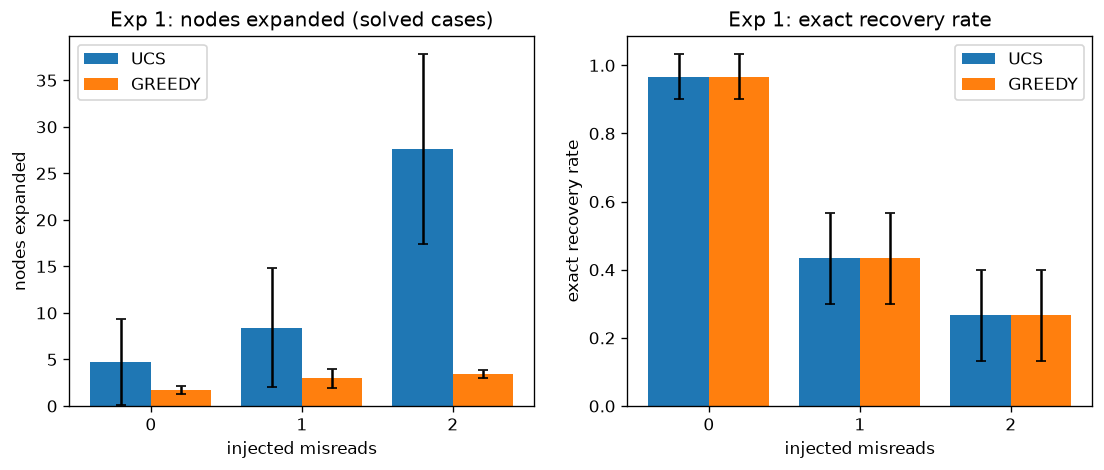
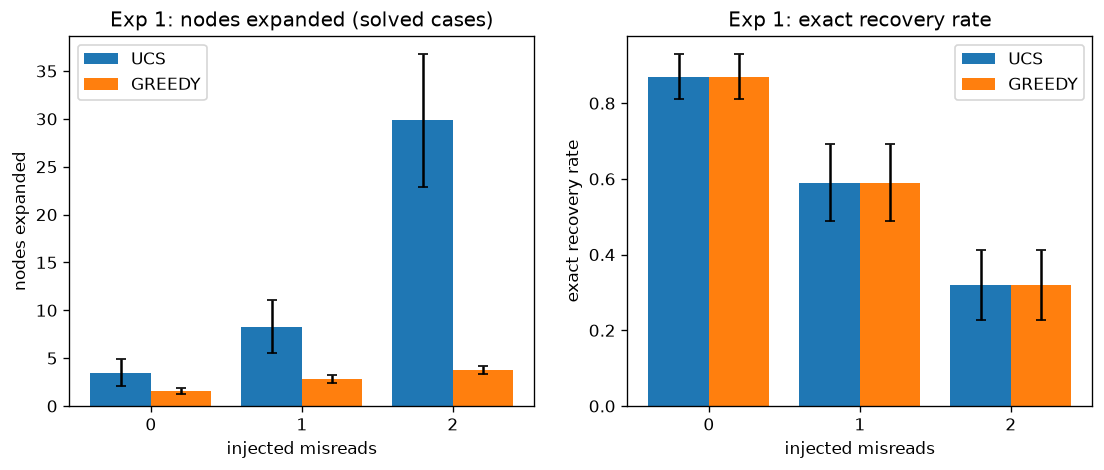
Experiments with 100 puzzles per level

diff --git a/experiments.py b/experiments.py
@@ -1,0 +1,224 @@
+# experiments.py - the three experiments. Saves exp*.csv and exp*.png.
+#   python experiments.py --quick     (small run, ~3 min, to check everything works)
+#   python experiments.py             (full run)
+import csv
+import random
+import signal
+import sys
+import time
+import numpy as np
+import matplotlib
+matplotlib.use("Agg")
+import matplotlib.pyplot as plt
+
+from puzzle_gen import make_puzzle
+from reader import load_all, make_pools, read_mosaic
+from csp import init_domains, ac3, solve, counters
+from search import search, solvable
+
+SEEDS = [1, 2, 3, 4, 5]
+PER_SEED = 20            # puzzles per seed per setting (experiments 1 and 3)
+PER_SEED_E2 = 4         # puzzles per seed per setting (experiment 2)
+MISREADS = [0, 1, 2]
+GIVENS = [25, 30, 35]
+TIMEOUT = 10            # seconds allowed for one plain-backtracking run
+RANDOM_BUDGET = 60      # CSP tests given to the random-correction baseline
+if "--quick" in sys.argv:
+    SEEDS, PER_SEED, PER_SEED_E2 = [1, 2], 2, 2
+
+
+class Timeout(Exception):
+    pass
+
+
+def _alarm(signum, frame):
+    raise Timeout()
+
+
+signal.signal(signal.SIGALRM, _alarm)       # Linux only
+
+
+def mean_std(per_seed):
+    v = np.array(per_seed, dtype=float)
+    v = v[~np.isnan(v)]
+    return (float(v.mean()), float(v.std())) if len(v) else (float("nan"), float("nan"))
+
+
+def seed_mean(values):
+    return float(np.mean(values)) if values else float("nan")
+
+
+def random_correction(read, rng, truth):
+    """Baseline: test the reading as is, then try random 1-2 cell changes."""
+    sol = solvable(read)
+    if sol is not None:
+        return sol == truth
+    cells = [(r, c) for r in range(9) for c in range(9) if read[r][c]]
+    for _ in range(RANDOM_BUDGET):
+        g = [row[:] for row in read]
+        for (r, c) in rng.sample(cells, rng.choice([1, 2])):
+            g[r][c] = rng.choice([d for d in range(1, 10) if d != read[r][c]])
+        sol = solvable(g)
+        if sol is not None:
+            return sol == truth
+    return False
+
+
+def exp13():
+    nn, x_test, y_test = load_all()
+    pools = make_pools(nn, x_test, y_test)
+    out = {}
+    for level in MISREADS:
+        keys = ["ucs_exact", "ucs_nodes", "ucs_cost", "greedy_exact", "greedy_nodes",
+                "greedy_cost", "none_exact", "random_exact"]
+        per_seed = {k: [] for k in keys}
+        for seed in SEEDS:
+            tmp = {k: [] for k in keys}
+            for i in range(PER_SEED):
+                s = seed * 1000 + level * 100 + i
+                puzzle, truth = make_puzzle(s, 30)
+                read, probs, _ = read_mosaic(puzzle, pools, nn, x_test, random.Random(s), level)
+                for m in ("ucs", "greedy"):
+                    res = search(read, probs, m)
+                    tmp[m + "_exact"].append(1.0 if res and res["solution"] == truth else 0.0)
+                    if res:
+                        tmp[m + "_nodes"].append(res["expanded"])
+                        tmp[m + "_cost"].append(res["cost"])
+                sol = solvable(read)
+                tmp["none_exact"].append(1.0 if sol is not None and sol == truth else 0.0)
+                tmp["random_exact"].append(
+                    1.0 if random_correction(read, random.Random(s + 1), truth) else 0.0)
+            for k in keys:
+                per_seed[k].append(seed_mean(tmp[k]))
+            print(f"  exp1/3: misreads={level} seed={seed} done", flush=True)
+        out[level] = {k: mean_std(v) for k, v in per_seed.items()}
+    return out
+
+
+def run_bt(grid, mode):
+    counters["assignments"] = 0
+    counters["backtracks"] = 0
+    g = [row[:] for row in grid]
+    timed_out = False
+    signal.setitimer(signal.ITIMER_REAL, TIMEOUT)
+    try:
+        dom = init_domains(g)
+        if mode == "bt+fc+ac3":
+            ac3(dom)
+        solve(g, dom, use_fc=(mode != "bt"))
+    except Timeout:
+        timed_out = True
+    finally:
+        signal.setitimer(signal.ITIMER_REAL, 0)
+    return counters["assignments"], counters["backtracks"], timed_out
+
+
+def exp2():
+    modes = ["bt", "bt+fc", "bt+fc+ac3"]
+    out = {}
+    for givens in GIVENS:
+        per = {m: {"assign": [], "back": [], "timeouts": 0} for m in modes}
+        for seed in SEEDS:
+            tmp = {m: {"a": [], "b": []} for m in modes}
+            for i in range(PER_SEED_E2):
+                puzzle, _ = make_puzzle(seed * 1000 + givens * 10 + i, givens)
+                for m in modes:
+                    a, b, to = run_bt(puzzle, m)
+                    tmp[m]["a"].append(a)
+                    tmp[m]["b"].append(b)
+                    per[m]["timeouts"] += int(to)
+            for m in modes:
+                per[m]["assign"].append(seed_mean(tmp[m]["a"]))
+                per[m]["back"].append(seed_mean(tmp[m]["b"]))
+            print(f"  exp2: givens={givens} seed={seed} done", flush=True)
+        out[givens] = {m: {"assign": mean_std(per[m]["assign"]), "back": mean_std(per[m]["back"]),
+                           "timeouts": per[m]["timeouts"]} for m in modes}
+    return out
+
+
+def write_csv(path, header, rows):
+    with open(path, "w", newline="") as f:
+        w = csv.writer(f)
+        w.writerow(header)
+        w.writerows(rows)
+    print("saved", path)
+
+
+def grouped_bar(ax, labels, series, ylabel, title, log=False):
+    w = 0.8 / len(series)
+    x = np.arange(len(labels))
+    for i, (name, (m, s)) in enumerate(series.items()):
+        ax.bar(x + i * w - 0.4 + w / 2, m, w, yerr=s, label=name, capsize=3)
+    ax.set_xticks(x)
+    ax.set_xticklabels(labels)
+    ax.set_ylabel(ylabel)
+    ax.set_title(title)
+    if log:
+        ax.set_yscale("log")
+    ax.legend()
+
+
+def main():
+    t0 = time.time()
+    print("Experiments 1 and 3 (search methods, NN vs baselines)...")
+    r13 = exp13()
+    print("Experiment 2 (BT vs BT+FC vs BT+FC+AC-3)...")
+    r2 = exp2()
+
+    # ---- tables
+    rows = []
+    for lv in MISREADS:
+        d = r13[lv]
+        for m in ("ucs", "greedy"):
+            rows.append([lv, m, *d[m + "_nodes"], *d[m + "_cost"], *d[m + "_exact"]])
+    write_csv("exp1_search.csv", ["injected_misreads", "method", "nodes_mean", "nodes_std",
+              "cost_mean", "cost_std", "recovery_mean", "recovery_std"], rows)
+
+    rows = []
+    for lv in MISREADS:
+        d = r13[lv]
+        rows.append([lv, *d["ucs_exact"], *d["none_exact"], *d["random_exact"]])
+    write_csv("exp3_nn_vs_baselines.csv", ["injected_misreads", "nn_guided_mean", "nn_guided_std",
+              "no_correction_mean", "no_correction_std", "random_mean", "random_std"], rows)
+
+    rows = []
+    for g in GIVENS:
+        for m, d in r2[g].items():
+            rows.append([g, m, *d["assign"], *d["back"], d["timeouts"]])
+    write_csv("exp2_csp.csv", ["givens", "method", "assignments_mean", "assignments_std",
+              "backtracks_mean", "backtracks_std", "timeouts"], rows)
+
+    # ---- plots
+    labels = [str(lv) for lv in MISREADS]
+    fig, axes = plt.subplots(1, 2, figsize=(11, 4))
+    grouped_bar(axes[0], labels, {m.upper(): ([r13[lv][m + "_nodes"][0] for lv in MISREADS],
+                [r13[lv][m + "_nodes"][1] for lv in MISREADS]) for m in ("ucs", "greedy")},
+                "nodes expanded", "Exp 1: nodes expanded (solved cases)")
+    grouped_bar(axes[1], labels, {m.upper(): ([r13[lv][m + "_exact"][0] for lv in MISREADS],
+                [r13[lv][m + "_exact"][1] for lv in MISREADS]) for m in ("ucs", "greedy")},
+                "exact recovery rate", "Exp 1: exact recovery rate")
+    for ax in axes:
+        ax.set_xlabel("injected misreads")
+    fig.savefig("exp1_search.png", dpi=120, bbox_inches="tight")
+
+    fig, ax = plt.subplots(figsize=(6, 4))
+    names = {"ucs_exact": "NN-guided (UCS)", "none_exact": "no correction", "random_exact": "random correction"}
+    grouped_bar(ax, labels, {n: ([r13[lv][k][0] for lv in MISREADS], [r13[lv][k][1] for lv in MISREADS])
+                for k, n in names.items()}, "exact recovery rate", "Exp 3: NN-guided vs baselines")
+    ax.set_xlabel("injected misreads")
+    fig.savefig("exp3_nn_vs_baselines.png", dpi=120, bbox_inches="tight")
+
+    fig, axes = plt.subplots(1, 2, figsize=(11, 4))
+    for ax, key, yl in ((axes[0], "assign", "assignments (log)"), (axes[1], "back", "backtracks (log)")):
+        grouped_bar(ax, [str(g) for g in GIVENS],
+                    {m: ([r2[g][m][key][0] for g in GIVENS], [r2[g][m][key][1] for g in GIVENS])
+                     for m in ("bt", "bt+fc", "bt+fc+ac3")}, yl, "Exp 2: " + yl, log=True)
+        ax.set_xlabel("number of givens")
+    fig.savefig("exp2_csp.png", dpi=120, bbox_inches="tight")
+
+    print(f"\nAll done in {(time.time() - t0) / 60:.1f} minutes.")
+    print("Plain-BT timeouts per setting:", {g: r2[g]["bt"]["timeouts"] for g in GIVENS})
+
+
+if __name__ == "__main__":
+    main()
